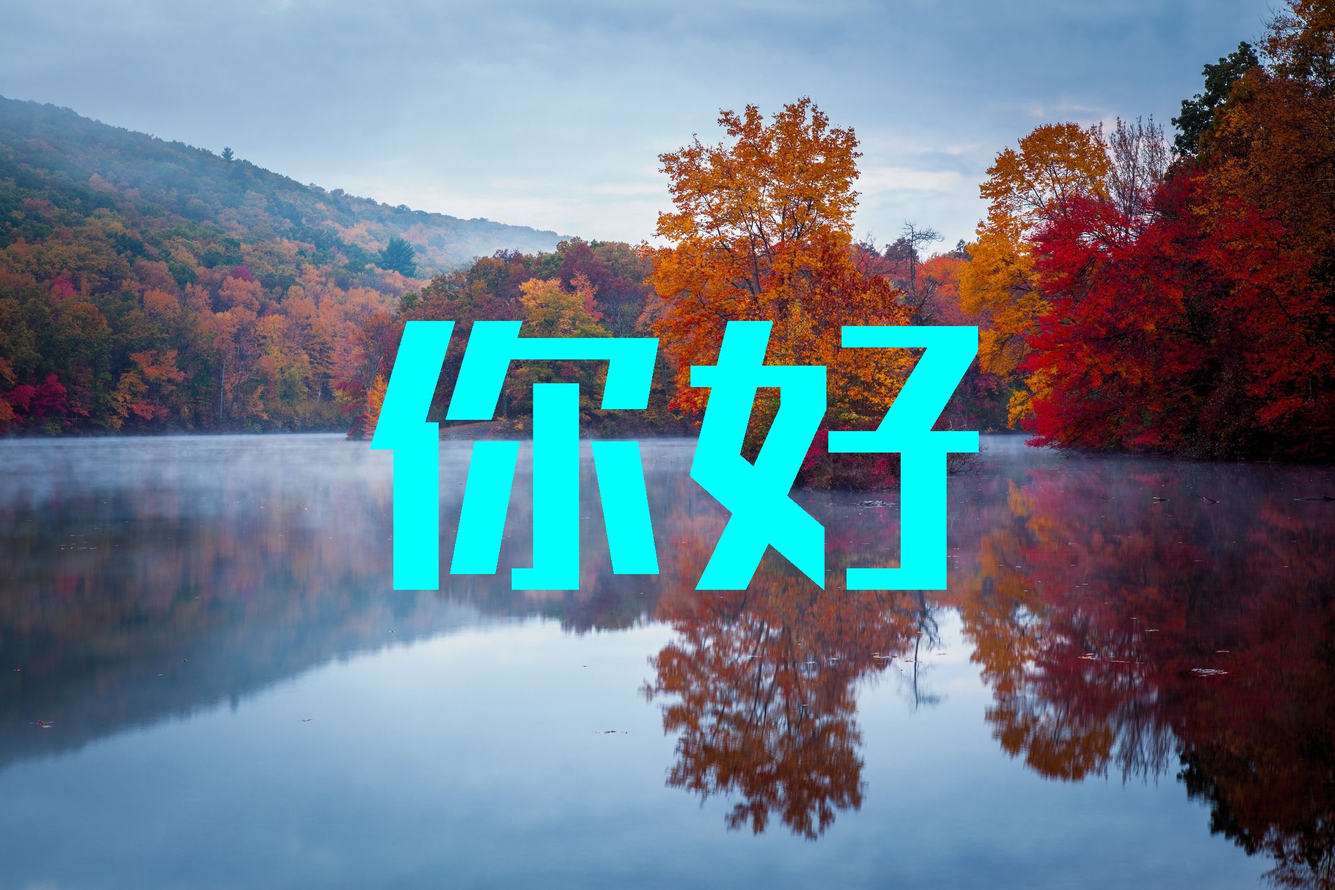
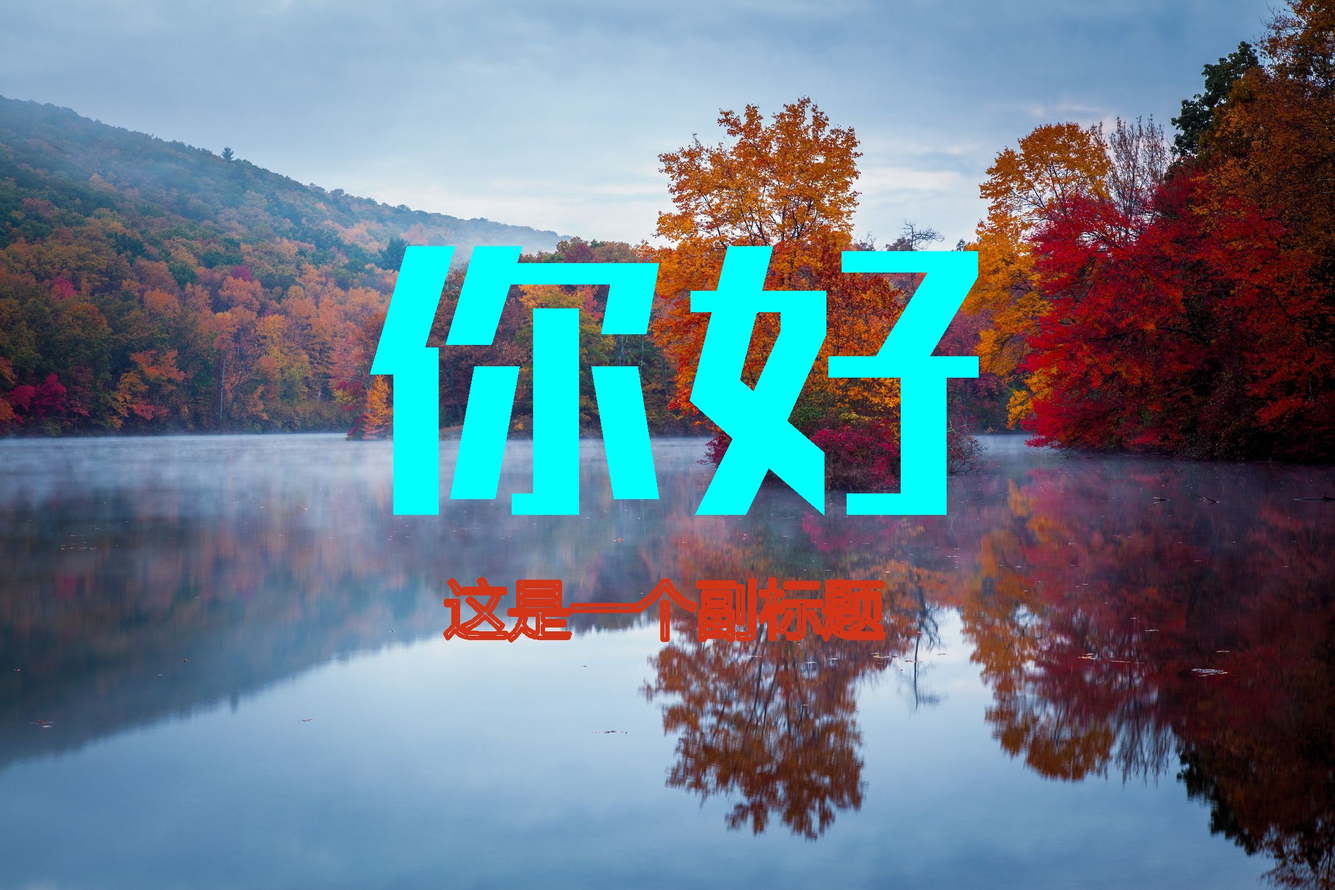
Example Involving Intensive Use of Json

Changed region(s): [[0.2801, 0.2489, 0.7468, 0.7468]]

diff --git a/WallpaperGenerator/src/WallpaperSynthesis.cpp b/WallpaperGenerator/src/WallpaperSynthesis.cpp
@@ -20,37 +20,37 @@
 namespace YMC {
 namespace WallpaperGenerator {
 
-int WallpaperSynthesis::putCenteredTextOnImg(string imageName, string text, string fontName, string outputPath) {
-  // read image in opencv matrix
-  cv::Mat img=cv::imread("../img/" + imageName);
+cv::Mat WallpaperSynthesis::putTextOnImg(cv::Mat img, string text, string style) {
 
   // read settings.json file
   std::ifstream f("../settings.json");
-  json settings = json::parse(f);
+  json settings = json::parse(f).at(style);
 
   // store settings data in proper variables
   int fontHeight=settings.at("fontHeight");
 	int thickness=settings.at("thickness");
 	int lineStyle=settings.at("lineStyle");
 	int baseline=settings.at("baseline");
+  double textOffsetX=settings.at("textOffsetX");
+  double textOffsetY=settings.at("textOffsetY");
+  cv::Scalar color(settings.at("colorB"), settings.at("colorG"), settings.at("colorR"));
+
 
   // initialize font
   cv::Ptr<cv::freetype::FreeType2> ft2;
 	ft2=cv::freetype::createFreeType2();
-	ft2->loadFontData("../fonts/" + fontName, 0);
+	ft2->loadFontData(settings.at("fontPath"), 0);
 
-  // set text position to make it be in the center
+  // set text position
   cv::Size textSize=ft2->getTextSize(text,fontHeight,thickness,&baseline);
-	cv::Point textOrg((img.cols - textSize.width) / 2,
-              (img.rows + textSize.height) / 2);
+	cv::Point textOrg((img.cols - textSize.width) * textOffsetX,
+                    (img.rows - fontHeight) * textOffsetY - fontHeight * 0.16); // some magic number that just works
   
   // put the text on the image
   ft2->putText(img, text, textOrg, fontHeight,
-             cv::Scalar(255,255,0), thickness, lineStyle, true );
-  
-  imwrite("../" + outputPath, img);
+             color, thickness, lineStyle, false );
 
-  return 0;
+  return img;
 }
 
 } // YMC

diff --git a/WallpaperGenerator/WallpaperGenerator.cpp b/WallpaperGenerator/WallpaperGenerator.cpp
@@ -1,12 +1,19 @@
 #include "WallpaperSynthesis.hpp"
 
 using namespace std;
+using namespace cv;
 
 int main()
 {
 	YMC::WallpaperGenerator::WallpaperSynthesis synthesizer;
 
-	synthesizer.putCenteredTextOnImg("lake.jpg", "你好", "MengxiangHeijian.ttf", "output.jpg");
+	Mat img = imread("../img/lake.jpg");
+
+	Mat imgWithText;
+	imgWithText = synthesizer.putTextOnImg(img, "你好", "title");
+	imgWithText = synthesizer.putTextOnImg(imgWithText, "这是一个副标题", "subtitle");
+
+	imwrite("../output.jpg", imgWithText);
 
 	return 0;
 }

diff --git a/WallpaperGenerator/include/WallpaperSynthesis.hpp b/WallpaperGenerator/include/WallpaperSynthesis.hpp
@@ -37,7 +37,7 @@ namespace WallpaperGenerator {
 class WallpaperSynthesis
 {
 public:
-  int putCenteredTextOnImg(string imageName, string text, string fontName, string outputPath);
+  cv::Mat putTextOnImg(cv::Mat img, string text, string style);
 };
 
 } // YMC
